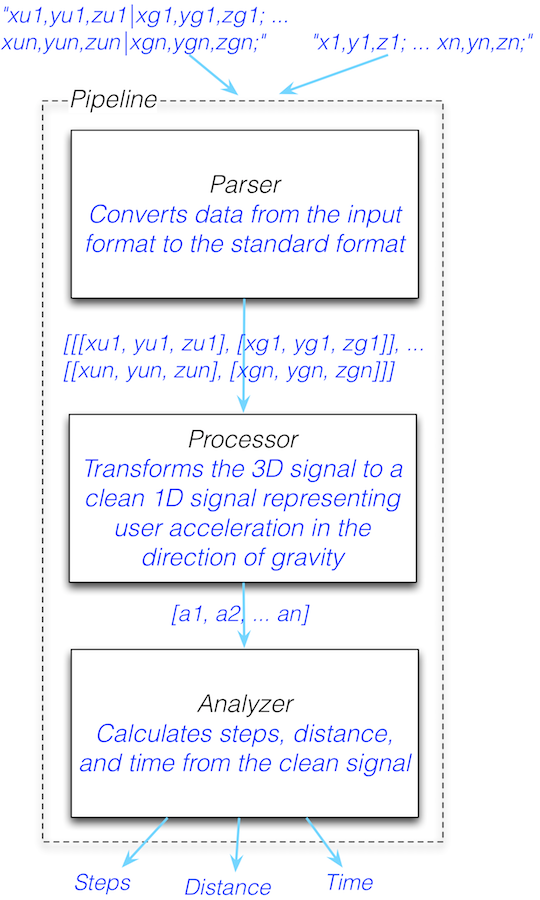
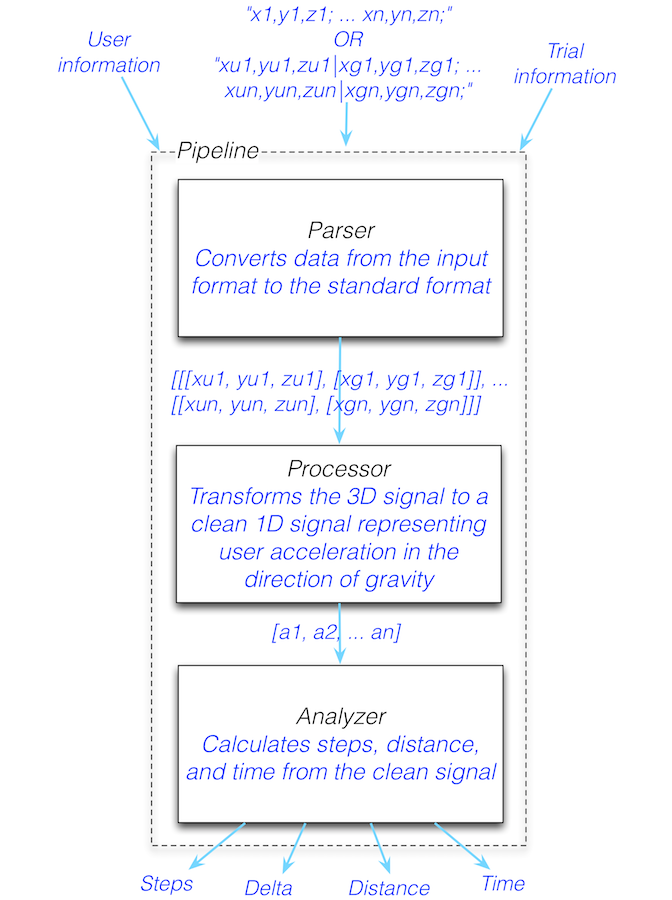
Add Pipeline code to chapter

Changed region(s): [[0.0, 0.0, 0.9778, 0.9956], [0.0593, 0.1244, 0.0889, 0.9333]]

diff --git a/pedometer/test/unit/analyzer_test.rb b/pedometer/test/unit/analyzer_test.rb
@@ -6,7 +6,7 @@ require_relative '../../models/analyzer'
 class AnalyzerTest < Test::Unit::TestCase
 
   def test_new
-    analyzer = Analyzer.new([0, 0])
+    analyzer = Analyzer.new([0, 0], User.new, Trial.new)
 
     assert_nil analyzer.steps
     assert_nil analyzer.distance
@@ -19,7 +19,7 @@ class AnalyzerTest < Test::Unit::TestCase
     data = [0, 0, 3.0950446845522207e-05, 8.888784491236883e-05, 
             0.00017675661757108235, 0.0003010710258273255, 
             0.0004670334044406543, 0.0006857659826903315]
-    analyzer = Analyzer.run(data)
+    analyzer = Analyzer.run(data, User.new, Trial.new)
     
     assert_nil analyzer.delta
     assert_equal 0, analyzer.steps
@@ -38,24 +38,6 @@ class AnalyzerTest < Test::Unit::TestCase
     assert_equal -8,         analyzer.delta
     assert_equal 700,        analyzer.distance
     assert_equal (1037/100), analyzer.time
-  end
-
-  # -- Creation Failure Tests -----------------------------------------------
-
-  def test_create_bad_user
-    assert_raise_with_message(RuntimeError, 'User invalid.') do
-      parser = Parser.run('0.123,-0.123,5;')
-      processor = Processor.run(parser.parsed_data)
-      analyzer = Analyzer.new(processor.filtered_data, 'bad user')
-    end
-  end
-
-  def test_create_bad_trial
-    assert_raise_with_message(RuntimeError, 'Trial invalid.') do
-      parser = Parser.run('0.123,-0.123,5;')
-      processor = Processor.run(parser.parsed_data)
-      analyzer = Analyzer.new(processor.filtered_data, User.new, 'bad trial')
-    end
   end
 
 end

diff --git a/pedometer/models/analyzer.rb b/pedometer/models/analyzer.rb
@@ -7,7 +7,7 @@ class Analyzer
 
   attr_reader :steps, :delta, :distance, :time
 
-  def self.run(data, user = User.new, trial = Trial.new)
+  def self.run(data, user, trial)
     analyzer = Analyzer.new(data, user, trial)
     analyzer.measure_steps
     analyzer.measure_delta
@@ -16,10 +16,7 @@ class Analyzer
     analyzer
   end
 
-  def initialize(data, user = User.new, trial = Trial.new)
-    raise 'User invalid.' unless user.kind_of? User
-    raise 'Trial invalid.' unless trial.kind_of? Trial
-
+  def initialize(data, user, trial)
     @data  = data
     @user  = user
     @trial = trial

diff --git a/pedometer/test/unit/pipeline_test.rb b/pedometer/test/unit/pipeline_test.rb
@@ -1,6 +1,5 @@
 require 'test/unit'
 require_relative '../../models/pipeline'
-require_relative '../../models/upload'
 
 class PipelineTest < Test::Unit::TestCase
 

diff --git a/pedometer/models/pipeline.rb b/pedometer/models/pipeline.rb
@@ -1,4 +1,3 @@
-require_relative 'upload'
 require_relative 'parser'
 require_relative 'processor'
 require_relative 'analyzer'

diff --git a/pedometer/chapter.md b/pedometer/chapter.md
@@ -323,7 +323,7 @@ Our standard format allows us to store a time series, as each element represents
 
 # The Pipeline
 
-Our solution takes data from an accelerometer as input, applies our signal processing solution, and returns as output the number of steps taken, the distance traveled, and the elapsed time. The entire process from input to output can be viewed as a pipeline. 
+Our system takes, as input, data from an accelerometer along with information on the user taking the walk (gender, stride, etc.) and information on the trial walk itself (sampling rate, actual steps taken, etc.). Given the input, our signal processing solution is applied, and our system returns as output the number of steps calculated, the delta between the actual steps and calculated steps, the distance traveled, and the elapsed time. The entire process from input to output can be viewed as a pipeline. 
 
 ![](chapter-figures/pipeline.png)\
 
@@ -536,7 +536,7 @@ class Analyzer
 
   attr_reader :steps, :delta, :distance, :time
 
-  def self.run(data, user = User.new, trial = Trial.new)
+  def self.run(data, user, trial)
     analyzer = Analyzer.new(data, user, trial)
     analyzer.measure_steps
     analyzer.measure_delta
@@ -545,10 +545,7 @@ class Analyzer
     analyzer
   end
 
-  def initialize(data, user = User.new, trial = Trial.new)
-    raise 'User invalid.' unless user.kind_of? User
-    raise 'Trial invalid.' unless trial.kind_of? Trial
-
+  def initialize(data, user, trial)
     @data  = data
     @user  = user
     @trial = trial
@@ -587,7 +584,7 @@ end
 
 The first thing we do in `Analyzer` is define a `THRESHOLD` constant. For the purposes of this discussion, let's assume we've analyzed numerous diverse data sets and determined a threshold value that accommodated the largest number of those data sets. The threshold can eventually become dynamic and vary with different users, based on the calculated versus actual steps they've taken. A learning algorithm, if you will.
 
-Our `Analyzer`'s initializer take a mandatory `data` parameter because we necessarily need a data set to work with, and optionally takes a `User` and `Trial` instance. Note that the default values for the `user` and `trial` parameters is a new instance of each. Remember how those classes both had default values and could handle zero input parameters? That functionality comes in handy here. The initializer raises exceptions if classes other than those expected are passed in, and sets the instance variables `@data`, `@user`, and `@trial` to the passed in parameters. 
+Our `Analyzer`'s initializer take a `data` parameter and instances of `User` and `Trial`, and sets the instance variables `@data`, `@user`, and `@trial` to the passed in parameters. 
 
 Aside from the initializer, the only other public method in `Analyzer` is `measure`, which calls `measure_steps`, `measure_distance`, and `measure_time`, in that order. All three methods are kept private so that an outside class can't call them out of order. Let's take a look at each.
 
@@ -612,10 +609,42 @@ The distance is measured by multiplying our user's stride by the number of steps
 
 Time is calculated by dividing the total number of samples in `filtered_data` by the sampling rate. It follows, then, that time is calculated in numbers of seconds. 
 
-TODO: Move elsewhere
-# Tying It All Together
+# Tying It All Together With the Pipeline
 
-Our Parser, Processor, and Analyzer classes, while useful individually, are definitely better together. Our program will often use them to run through the pipeline we introduced earlier. For the pipeline to work, we need to supply it with data from the accelerometer, along with instances of User and Trial. 
+Our Parser, Processor, and Analyzer classes, while useful individually, are definitey better together. Our program will often use them to run through the pipeline we introduced earlier. Since the pipeline will need to be run frequently, we'll create a `Pipeline` class to run it for us.
+
+~~~~~~~
+require_relative 'parser'
+require_relative 'processor'
+require_relative 'analyzer'
+
+class Pipeline
+
+  attr_reader :data, :user, :trial, :parser, :processor, :analyzer
+
+  def self.run(data, user, trial)
+    pipeline = Pipeline.new(data, user, trial)
+    pipeline.feed
+    pipeline
+  end
+
+  def initialize(data, user, trial)
+    @data  = data
+    @user  = user
+    @trial = trial
+  end
+
+  def feed
+    @parser    = Parser.run(@data)
+    @processor = Processor.run(@parser.parsed_data)
+    @analyzer  = Analyzer.run(@processor.filtered_data, @user, @trial)
+  end
+
+end
+~~~~~~~
+
+We use our now familiar `run` pattern and supply `Pipeline` with accelerometer data, and instances of `User` and `Trial`. The `feed` method implements the pipeline, which entails running `Parser` with the accelerometer data, then using the parser's parsed data to run `Processor`, and finally using the processor's filtered data to run `Analyzer`. The `Pipeline` keeps `@parser`, `@processor`, and `@analyzer` instance variables, so that the program has access to information from those objects for display purposes through the app. 
+TODO: Add note on stateful versus stateless?
 
 # Adding Some Friendly
 
